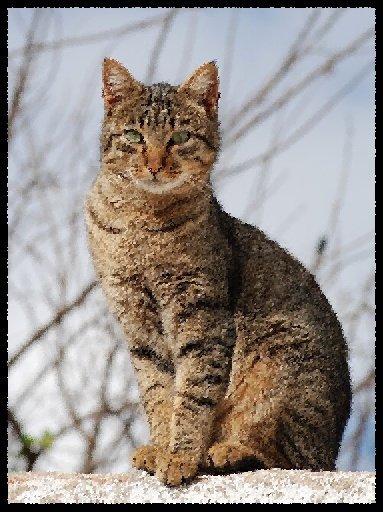
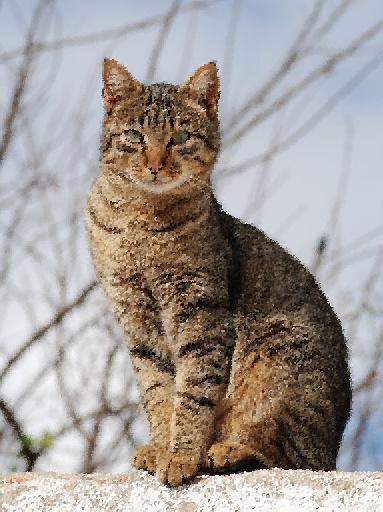
fix: resolve black margin

diff --git a/oil_utils.py b/oil_utils.py
@@ -1,9 +1,8 @@
 import random
-import time
 import numpy as np
 from skimage import draw
 from skimage.color import rgb2gray
-from skimage.filters import laplace as skimage_laplace # 避免名稱衝突
+from skimage.filters import laplace as skimage_laplace
 from scipy.ndimage import sobel
 from math import pi
 
@@ -64,19 +63,14 @@ def process(inputImage, brushSize, expressionLevel, brushes=BRUSHES, seed=None,
         random_rot = random.random() * pi
         brush_templates.append({'c_radius_val_at_base': c_radius_val, 'random_rotation': random_rot})
 
-    # 計算邊界
-    max_possible_r_radius = base_r_radius * max_brush_scale
-    max_possible_c_radius_factor = max(1.0, actual_expression_level)
-    max_abs_radius_component = max_possible_r_radius * max_possible_c_radius_factor
-    margin = int(np.ceil(max_abs_radius_component)) + 5
-
     result = np.zeros(inputImage.shape, dtype=np.uint8)
     
     # 筆刷間距
     step_size = max(1, int(base_r_radius * 2 * stroke_spacing_factor))
+    start_offset = step_size // 2
 
-    for x in range(margin, inputImage.shape[0] - margin, step_size):
-        for y in range(margin, inputImage.shape[1] - margin, step_size):
+    for x in range(start_offset, inputImage.shape[0], step_size):
+        for y in range(start_offset, inputImage.shape[1], step_size):
             # 1. 決定目前筆刷主半徑
             current_r_radius = base_r_radius
             if adaptive_brush_enabled and detail_map_norm is not None:
